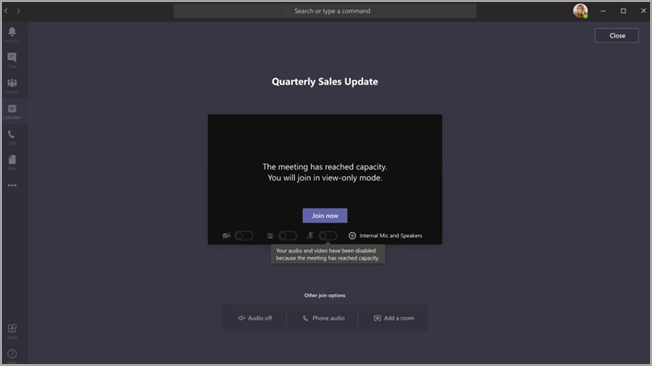
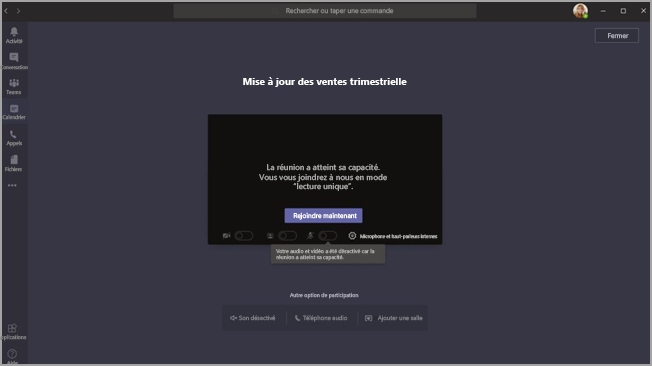
commit translated contents

diff --git a/Teams/create-a-phone-system-call-queue.md b/Teams/create-a-phone-system-call-queue.md
@@ -24,12 +24,12 @@ ms.custom:
 - Phone System
 - seo-marvel-apr2020
 description: Découvrez comment configurer des files d’attente d’appels pour les grandes organisations dans Microsoft Teams, qui fournit un message de salutation, des attentes musicales, la redirection d’appels et d’autres fonctionnalités.
-ms.openlocfilehash: 2967c2ce5f6d058415e39e68f6870aacf575377c
-ms.sourcegitcommit: e7f6125d348b6f14eeba28e09d5f1975ad4fde69
+ms.openlocfilehash: 073f1fa2fbc96ed78cddb6e16201476df2cafa96
+ms.sourcegitcommit: 99bf220249723e954cf5295df3418d93fec80db6
 ms.translationtype: MT
 ms.contentlocale: fr-FR
-ms.lasthandoff: 10/09/2021
-ms.locfileid: "60249516"
+ms.lasthandoff: 10/12/2021
+ms.locfileid: "60275608"
 ---
 # <a name="create-a-call-queue"></a>Créer une file d’attente des appels
 
@@ -155,13 +155,15 @@ La **méthode de routage** détermine l’ordre dans lequel les agents reçoiven
 
 - Le **tourniquet (round robin)** équilibre le routage des appels entrants afin que chaque agent d’appel reçoive le même nombre d’appels provenant de la file d’attente. Ceci peut être utile dans un environnement de ventes entrantes pour assurer l’égalité des chances entre tous les agents d’appel.
 
-- L’**inactivité la plus longue** achemine chaque appel vers l’agent qui a été inactif le plus longtemps. Un agent est considéré comme inactif si son état de présence est défini sur Disponible ou si son état de présence est défini sur Absent depuis moins de 10 minutes. Les agents dont l’état de présence est définie sur Absent depuis plus de 10 minutes ne sont pas considérés comme inactifs et ne pourront pas recevoir d’appels tant qu’ils n’auront pas changé leur présence en Disponible. 
+- L’**inactivité la plus longue** achemine chaque appel vers l’agent qui a été inactif le plus longtemps. Un agent est considéré comme inactif si son état de présence est disponible. Les agents dont l’état de présence n’est pas disponible ne peuvent pas recevoir d’appels tant qu’ils n’ont pas changé leur présence en Disponible. 
 
 > [!TIP]
 > Il est recommandé de définir la **méthode de routage** sur **Rond-rond** ou **Inactif** le plus long.
 
 > [!NOTE]
 > Si [l’enregistrement de](teams-recording-policy.md) conformité est activé sur les agents, la combinaison du **mode** conférence et du **routage d’Attendant** n’est pas prise en charge. Si vous avez besoin d’utiliser **le mode** Conférence, sélectionnez **Routage** en **série,** Relecteur arrondi ou Inactif le plus **long** comme méthode **de routage.** Si vous devez utiliser le **routage d’Attendant,** définissez **le mode** Conférence sur **Off**.
+> 
+> Lorsque  vous utilisez l’inactivité la plus longue, il peut se parfois qu’un agent reçoit un appel de la file d’attente peu de temps après être indisponible ou si la réception d’un appel de la file d’attente prend un peu de temps après être devenue disponible.
 
 ![Capture d’écran des paramètres de routage, de désinspondage et d’heure d’alerte.](media/call-queue-presence-agents-time.png)
 

diff --git a/Teams/operator-connect-configure.md b/Teams/operator-connect-configure.md
@@ -21,12 +21,12 @@ ms.custom:
 - seo-marvel-jun2020
 appliesto:
 - Microsoft Teams
-ms.openlocfilehash: 47ed8fc4f8ca36a1d987456ff393a1b771c6fb10
-ms.sourcegitcommit: e7f6125d348b6f14eeba28e09d5f1975ad4fde69
+ms.openlocfilehash: 6c19981f4cc7edb556b245da2aac0b320705cc64
+ms.sourcegitcommit: 99bf220249723e954cf5295df3418d93fec80db6
 ms.translationtype: MT
 ms.contentlocale: fr-FR
-ms.lasthandoff: 10/09/2021
-ms.locfileid: "60249676"
+ms.lasthandoff: 10/12/2021
+ms.locfileid: "60275568"
 ---
 # <a name="configure-operator-connect"></a>Configurer l’Connecter
 
@@ -108,7 +108,7 @@ Pour plus d’informations sur les appels d’urgence, voir [Gérer](what-are-em
    Supprimez l’URI On-prem Line en exécutant la commande PowerShell suivante :  
 
    ```
-   Set-CsUser -identity <user> - OnPremLineURI $null 
+   Set-CsUser -Identity <user> -OnPremLineURI $null 
    ```
 
 2. Supprimez les problèmes d’utilisation PSTNUsage associés à vos utilisateurs, sans quoi les appels seront acheminés vers la passerelle spécifiée dans l’utilisation PSTN. Pour savoir comment supprimer l’utilisation PSTN, voir [Set-CsOnlinePstnUsage.](/powershell/module/skype/set-csonlinepstnusage?view=skype-ps)
